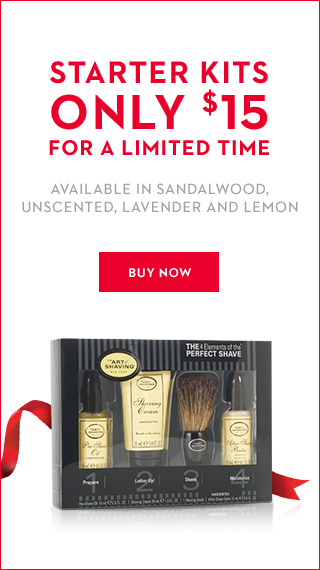
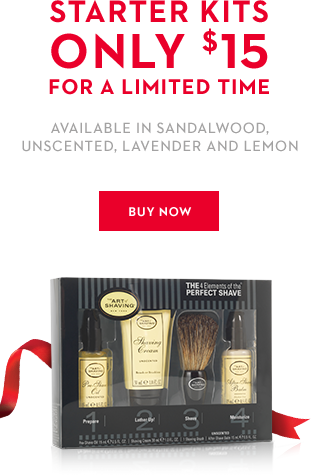
Refactors the product grid using traditional floats. Leaves the flex display for the box's content, allowing for easy horizontal and vertical alignement of product detail elements, and the page header/footer

diff --git a/dist/css/style.css b/dist/css/style.css
@@ -1,1 +1,1 @@
-@font-face{font-family:'Neutraface-Bold';src:url(../fonts/neutra2text_bold-webfont.eot);src:url(../fonts/neutra2text_bold-webfont.eot?#iefix) format("embedded-opentype"),url(../fonts/neutra2text_bold-webfont.woff2) format("woff2"),url(../fonts/neutra2text_bold-webfont.woff) format("woff"),url(../fonts/neutra2text_bold-webfont.ttf) format("truetype"),url(../fonts/neutra2text_bold-webfont.svg#webfontregular) format("svg");font-weight:normal;font-style:normal}@font-face{font-family:'Neutraface-Book';src:url(../fonts/neutra2text_book-webfont.eot);src:url(../fonts/neutra2text_book-webfont.eot?#iefix) format("embedded-opentype"),url(../fonts/neutra2text_book-webfont.woff2) format("woff2"),url(../fonts/neutra2text_book-webfont.woff) format("woff"),url(../fonts/neutra2text_book-webfont.ttf) format("truetype"),url(../fonts/neutra2text_book-webfont.svg#webfontregular) format("svg");font-weight:normal;font-style:normal}a,a:active,a:hover,a:visited{color:#bbb}body{margin:0px}.dev-card .product-image{margin:0 auto}.diag-strikethrough,ul#gift-sets li.product-card .product-info .price.slashed{position:relative}.diag-strikethrough:before,ul#gift-sets li.product-card .product-info .price.slashed:before{content:'';position:absolute;top:59%;left:-20%;border-color:inherit;border-top:1px solid;width:150%;-webkit-transform:rotate(-15deg);transform:rotate(-15deg)}.promo-card{padding:10px 0 !important;background:white !important;padding:0 !important}.promo-card img{margin:0 auto}@media (min-width: 1000px){.promo-card{margin-bottom:-250px !important}}.button-group{cursor:pointer;position:relative;margin-top:20px}.button-group label{font-size:.8em;color:#bbb}.button-group ul.dropdown-menu{display:none;position:absolute;background:white;box-shadow:0 1px 5px #bbb;padding:10px;margin:0;border:1px solid #bbb;width:80%;list-style:none}.button-group ul.dropdown-menu li{color:#bbb;padding:5px 0;border-bottom:1px dotted #bbb}.button-group ul.dropdown-menu li:last-child{border-bottom:0}.button{transition:all 0.25s ease;background-color:transparent;border:1px solid #bbb;box-sizing:border-box;color:#bbb;cursor:pointer;display:block;font-size:.8em;padding:10px;text-decoration:none}.button.buy-now{font-family:'Neutraface-bold';color:#ea2127;margin:20px 0;border:1px solid #ea2127;text-align:center;max-width:120px;text-transform:uppercase}.button.buy-now:hover{transition:all 0.25s ease;background-color:#ea2127;color:#ffffff}.title-line{overflow:hidden;text-align:center}.title-line h2{color:#ea2127;display:inline-block;font-family:'Neutraface-Bold';padding:0 15px;position:relative}.title-line h2:before,.title-line h2:after{background:#ea2127;content:'';display:block;height:1px;position:absolute;right:100%;top:50%;width:500%}.title-line h2:after{left:100%}.container{max-width:1000px;padding:5px;margin:0 auto}ul#gift-sets{display:-webkit-flex;display:-ms-flexbox;display:flex;-webkit-flex-flow:row wrap;-ms-flex-flow:row wrap;flex-flow:row wrap;list-style-type:none;margin:0;padding:0;-webkit-justify-content:center;-ms-flex-pack:center;justify-content:center}@media (min-width: 670px){ul#gift-sets{-webkit-flex-flow:row wrap;-ms-flex-flow:row wrap;flex-flow:row wrap}}@media (min-width: 1000px){ul#gift-sets{-webkit-flex-flow:row wrap;-ms-flex-flow:row wrap;flex-flow:row wrap;-webkit-justify-content:flex-start;-ms-flex-pack:start;justify-content:flex-start}}ul#gift-sets li.product-card{-webkit-flex:1 0 100%;-ms-flex:1 0 100%;flex:1 0 100%;-webkit-align-items:center;-ms-flex-align:center;align-items:center;display:-webkit-flex;display:-ms-flexbox;display:flex;-webkit-flex-flow:row nowrap;-ms-flex-flow:row nowrap;flex-flow:row nowrap;box-sizing:border-box;margin:5px;padding:5px 5px 0;background:#f5f4f7;background:radial-gradient(at bottom, #fff 0%, #f5f4f7 100%)}@media (min-width: 670px){ul#gift-sets li.product-card{-webkit-flex:0 0 320px;-ms-flex:0 0 320px;flex:0 0 320px}}@media (min-width: 670px){ul#gift-sets li.product-card{padding:5px 15px 0}}ul#gift-sets li.product-card .product-image{-webkit-flex:1 0 25%;-ms-flex:1 0 25%;flex:1 0 25%;-webkit-align-self:center;-ms-flex-item-align:center;align-self:center}ul#gift-sets li.product-card .product-image img{display:block}ul#gift-sets li.product-card .product-info{-webkit-flex-grow:1;-ms-flex-positive:1;flex-grow:1;font-family:'Neutraface-book';font-weight:200}ul#gift-sets li.product-card .product-info .product-title{font-size:0.95em;font-weight:bold;color:#7b7a7b;margin:0;letter-spacing:0.03em;max-width:130px;text-transform:uppercase}ul#gift-sets li.product-card .product-info .price{display:inline;margin:0 .5em 0 0}ul#gift-sets li.product-card .product-info .price.regular{color:#bbb}ul#gift-sets li.product-card .product-info .price.promo{color:#ea2127}ul#gift-sets li.product-card .product-info .details-link{display:block;font-size:.8em;letter-spacing:.06em;text-transform:uppercase}ul#gift-sets li.featured-wide{-webkit-flex-flow:column wrap;-ms-flex-flow:column wrap;flex-flow:column wrap}@media (min-width: 400px){ul#gift-sets li.featured-wide{-webkit-flex-flow:row nowrap;-ms-flex-flow:row nowrap;flex-flow:row nowrap}}@media (min-width: 670px){ul#gift-sets li.featured-wide{-webkit-flex:0 0 650px;-ms-flex:0 0 650px;flex:0 0 650px}}@media (min-width: 1000px){ul#gift-sets li.featured-wide{-webkit-flex:0 1 650px;-ms-flex:0 1 650px;flex:0 1 650px}}ul#gift-sets li.featured-wide .product-image{-webkit-order:2;-ms-flex-order:2;order:2;-webkit-align-self:flex-end;-ms-flex-item-align:end;align-self:flex-end;margin-top:1rem;max-width:344px}ul#gift-sets li.featured-wide .product-image img{width:90%}@media (min-width: 400px){ul#gift-sets li.featured-wide .product-image{-webkit-order:1;-ms-flex-order:1;order:1}}ul#gift-sets li.featured-wide .product-info{-webkit-order:1;-ms-flex-order:1;order:1;text-align:center}ul#gift-sets li.featured-wide .product-info .product-title{margin:1rem auto 0}ul#gift-sets li.featured-wide .product-info .button.buy-now{margin:20px auto}#buynow-alert{background:rgba(0,0,0,0.5);display:none;font-family:'Neutraface-Book';height:100vh;left:0;position:fixed;text-align:center;top:0;width:100vw}#buynow-alert .content{background-color:#ffffff;border:1px solid #ea2127;box-shadow:0 0 10px rgba(0,0,0,0.5);height:auto;line-height:1.5em;margin:2rem auto;padding:2rem;width:50%}#buynow-alert .button{margin:0 auto}footer{font-family:'Neutraface-Book';font-size:.8em;color:#bbb;padding:1rem;border-top:1px solid #bbb;text-align:center;margin-top:5px}
+@font-face{font-family:'Neutraface-Bold';src:url(../fonts/neutra2text_bold-webfont.eot);src:url(../fonts/neutra2text_bold-webfont.eot?#iefix) format("embedded-opentype"),url(../fonts/neutra2text_bold-webfont.woff2) format("woff2"),url(../fonts/neutra2text_bold-webfont.woff) format("woff"),url(../fonts/neutra2text_bold-webfont.ttf) format("truetype"),url(../fonts/neutra2text_bold-webfont.svg#webfontregular) format("svg");font-weight:normal;font-style:normal}@font-face{font-family:'Neutraface-Book';src:url(../fonts/neutra2text_book-webfont.eot);src:url(../fonts/neutra2text_book-webfont.eot?#iefix) format("embedded-opentype"),url(../fonts/neutra2text_book-webfont.woff2) format("woff2"),url(../fonts/neutra2text_book-webfont.woff) format("woff"),url(../fonts/neutra2text_book-webfont.ttf) format("truetype"),url(../fonts/neutra2text_book-webfont.svg#webfontregular) format("svg");font-weight:normal;font-style:normal}.clearfix{content:"";display:table}a,a:active,a:hover,a:visited{color:#bbb}body{margin:0px}header,section,footer{-webkit-flex:1 0 100%;-ms-flex:1 0 100%;flex:1 0 100%}.dev-card .product-image{margin:0 auto}.diag-strikethrough,#gift-sets .product-card .product-info .price.slashed{position:relative}.diag-strikethrough:before,#gift-sets .product-card .product-info .price.slashed:before{content:'';position:absolute;top:59%;left:-20%;border-color:inherit;border-top:1px solid;width:150%;-webkit-transform:rotate(-15deg);transform:rotate(-15deg)}.button-group{cursor:pointer;position:relative;margin-top:20px}.button-group label{font-size:.8em;color:#bbb}.button-group ul.dropdown-menu{display:none;position:absolute;background:white;box-shadow:0 1px 5px #bbb;padding:10px;margin:0;border:1px solid #bbb;width:80%;list-style:none}.button-group ul.dropdown-menu li{color:#bbb;padding:5px 0;border-bottom:1px dotted #bbb}.button-group ul.dropdown-menu li:last-child{border-bottom:0}.button{transition:all 0.25s ease;background-color:transparent;border:1px solid #bbb;box-sizing:border-box;color:#bbb;cursor:pointer;display:block;font-size:.8em;padding:10px;text-decoration:none}.button.buy-now{font-family:'Neutraface-bold';color:#ea2127;margin:20px 0;border:1px solid #ea2127;text-align:center;max-width:120px;text-transform:uppercase}.button.buy-now:hover{transition:all 0.25s ease;background-color:#ea2127;color:#ffffff}.title-sidelines{overflow:hidden;text-align:center}.title-sidelines h2{color:#ea2127;display:inline-block;font-family:'Neutraface-Bold';padding:0 15px;position:relative}.title-sidelines h2:before,.title-sidelines h2:after{background:#ea2127;content:'';display:block;height:1px;position:absolute;right:100%;top:50%;width:500%}.title-sidelines h2:after{left:100%}.container{box-sizing:border-box;padding:5px;margin:0 auto;max-width:670px;width:100%}@media (min-width: 1000px){.container{max-width:1000px}}#gift-sets{list-style-type:none;margin:0;padding:0}@media (min-width: 1000px){#gift-sets{-webkit-flex-flow:row wrap;-ms-flex-flow:row wrap;flex-flow:row wrap;-webkit-justify-content:flex-start;-ms-flex-pack:start;justify-content:flex-start}}#gift-sets .product-card{-webkit-align-items:center;-ms-flex-align:center;align-items:center;display:-webkit-flex;display:-ms-flexbox;display:flex;-webkit-flex-flow:row nowrap;-ms-flex-flow:row nowrap;flex-flow:row nowrap;box-sizing:border-box;margin:5px;padding:5px 5px 0;background:#f5f4f7;background:radial-gradient(at bottom, #fff 0%, #f5f4f7 100%)}@media (min-width: 670px){#gift-sets .product-card{height:280px;float:left;width:320px}}@media (min-width: 670px){#gift-sets .product-card{padding:5px 15px 0}}#gift-sets .product-card .product-image{-webkit-flex:1 0 25%;-ms-flex:1 0 25%;flex:1 0 25%;-webkit-align-self:center;-ms-flex-item-align:center;align-self:center}#gift-sets .product-card .product-image img{display:block}#gift-sets .product-card .product-info{-webkit-flex-grow:1;-ms-flex-positive:1;flex-grow:1;font-family:'Neutraface-book';font-weight:200}#gift-sets .product-card .product-info .product-title{font-size:0.95em;font-weight:bold;color:#7b7a7b;margin:0;letter-spacing:0.03em;max-width:130px;text-transform:uppercase}#gift-sets .product-card .product-info .price{display:inline;margin:0 .5em 0 0}#gift-sets .product-card .product-info .price.regular{color:#bbb}#gift-sets .product-card .product-info .price.promo{color:#ea2127}#gift-sets .product-card .product-info .details-link{display:block;font-size:.8em;letter-spacing:.06em;text-transform:uppercase}#gift-sets .double-tall{height:570px;padding:10px 0;background:white;border:1px solid #ea2127;padding:0}#gift-sets .double-tall img{margin:0 auto}@media (min-width: 670px){#gift-sets .double-tall{float:right}}#gift-sets .double-wide{-webkit-flex-flow:column wrap;-ms-flex-flow:column wrap;flex-flow:column wrap}@media (min-width: 400px){#gift-sets .double-wide{-webkit-flex-flow:row nowrap;-ms-flex-flow:row nowrap;flex-flow:row nowrap}}@media (min-width: 670px){#gift-sets .double-wide{width:650px}}#gift-sets .double-wide .product-image{-webkit-order:2;-ms-flex-order:2;order:2;-webkit-align-self:flex-end;-ms-flex-item-align:end;align-self:flex-end;margin-top:1rem;max-width:344px}#gift-sets .double-wide .product-image img{width:90%}@media (min-width: 400px){#gift-sets .double-wide .product-image{-webkit-order:1;-ms-flex-order:1;order:1}}#gift-sets .double-wide .product-info{-webkit-order:1;-ms-flex-order:1;order:1;text-align:center}#gift-sets .double-wide .product-info .product-title{margin:1rem auto 0}#gift-sets .double-wide .product-info .button.buy-now{margin:20px auto}#buynow-alert{background:rgba(0,0,0,0.5);display:none;font-family:'Neutraface-Book';height:100vh;left:0;position:fixed;text-align:center;top:0;width:100vw}#buynow-alert .content{background-color:#ffffff;border:1px solid #ea2127;box-shadow:0 0 10px rgba(0,0,0,0.5);height:auto;line-height:1.5em;margin:2rem auto;padding:2rem;width:50%}#buynow-alert .button{margin:0 auto}footer{font-family:'Neutraface-Book';font-size:.8em;color:#bbb;padding:1rem;border-top:1px solid #bbb;text-align:center;margin-top:5px}

diff --git a/src/scss/style.scss b/src/scss/style.scss
@@ -23,20 +23,24 @@ $text-black: #7b7a7b;
   transition: all $duration ease;
 }
 
+.clearfix {
+	content: "";
+	display: table;
+}
 
-@mixin wide-col-layout {
+@mixin wide-col-layout() {
   @media (min-width: 400px) {
     @content;
   }
 }
 
-@mixin two-col-layout {
+@mixin two-col-layout() {
   @media (min-width: 670px) {
     @content;
   }
 }
 
-@mixin three-col-layout {
+@mixin three-col-layout() {
   @media (min-width: 1000px) {
     @content;
   }
@@ -51,7 +55,16 @@ a:visited {
 
 body {
   margin: 0px;
+  //display: flex;
 }
+
+header,
+section,
+footer
+{
+  flex: 1 0 100%;
+}
+
 
 //DEV overrides for filler blocks in the product cards
 .dev-card {
@@ -72,21 +85,6 @@ body {
     border-top: 1px solid;
     width: 150%;
     transform: rotate(-15deg);
-  }
-}
-
-// Special Card Styling
-.promo-card {
-
-  padding: 10px 0 !important;
-  background: white !important;
-  padding: 0 !important;
-  img {
-    margin: 0 auto;
-  }
-  @include three-col-layout {
-    //This one is tricky. Using a negative margin hack to display it as per comps, but a production solution would need to be more elegant to alow for more items to display correctly. As of now, an extra card would overlay the tall promo card.
-    margin-bottom: -250px !important;
   }
 }
 
@@ -152,7 +150,7 @@ body {
   }
 }
 
-.title-line {
+.title-sidelines {
   overflow: hidden;
   text-align: center;
 
@@ -182,21 +180,22 @@ body {
 }
 
 .container {
-  max-width: 1000px;
+  box-sizing: border-box;
   padding: 5px;
   margin: 0 auto;
+  max-width: 670px;
+  width: 100%;
+  @include three-col-layout{
+    max-width: 1000px;
+  }
 }
 
-ul#gift-sets {
-  display: flex; // because #screwfloats. It's 2016!
-  flex-flow: row wrap;
+#gift-sets {
   list-style-type: none;
   margin: 0;
   padding: 0;
-  justify-content: center;
 
   @include two-col-layout {
-    flex-flow: row wrap;
   }
 
   @include three-col-layout {
@@ -204,12 +203,11 @@ ul#gift-sets {
     justify-content: flex-start;
   }
 
-  li.product-card {
-
-    //Flex settings as a child of product list
-    flex: 1 0 100%;
+  .product-card {
     @include two-col-layout{
-      flex: 0 0 320px;
+      height: 280px;
+      float: left;
+      width: 320px;
     }
 
     //Flex settings as a parent of product details
@@ -269,11 +267,22 @@ ul#gift-sets {
       }
     }
   }
+  // Special Card Styling
+  .double-tall {
+    height: 570px;
+    padding: 10px 0;
+    background: white;
+    border: 1px solid $project-red;
+    padding: 0;
+    img {
+      margin: 0 auto;
+    }
+    @include two-col-layout {
+      float:right;
+    }
+  }
 
-  li.featured-wide {
-    //Inherits some basic flex properties from the regular card already
-    //Flex settings as a child of product list
-
+  .double-wide {
     //Flex settings as a flex container to product description
     flex-flow: column wrap;
     @include wide-col-layout {
@@ -281,11 +290,9 @@ ul#gift-sets {
     }
 
     @include two-col-layout {
-      flex: 0 0 650px;
+      width: 650px;
     }
-    @include three-col-layout {
-      flex: 0 1 650px;
-    }
+
     .product-image {
       order: 2;
       align-self: flex-end;

diff --git a/index.html b/index.html
@@ -18,10 +18,10 @@
 		<header>
 		</header>
 		<section id="products">
-			<div class="container">
-				<div class="title-line"><h2>Gift Sets</h2></div>
+			<div class="container clearfix">
+				<div class="title-sidelines"><h2>Gift Sets</h2></div>
 				<ul id="gift-sets">
-					<li class="product-card featured-wide">
+					<li class="product-card double-wide">
 						<div class="product-image">
 							<img src="dist/product-images/peppermint-shaving-cream.png" alt="Peppermint Shaving Cream">
 						</div>
@@ -65,7 +65,7 @@
 							<img class="" src="dist/product-images/unscented-after-shave-lotion.png" alt="Unscented After Shave Lotion">
 						</div>
 					</li>
-					<li class="product-card dev-card promo-card ">
+					<li class="product-card dev-card double-tall ">
 						<div class="product-image">
 							<img class="" src="dist/product-images/starter-kits-special.png" alt="Starter Kits Specials">
 						</div>
